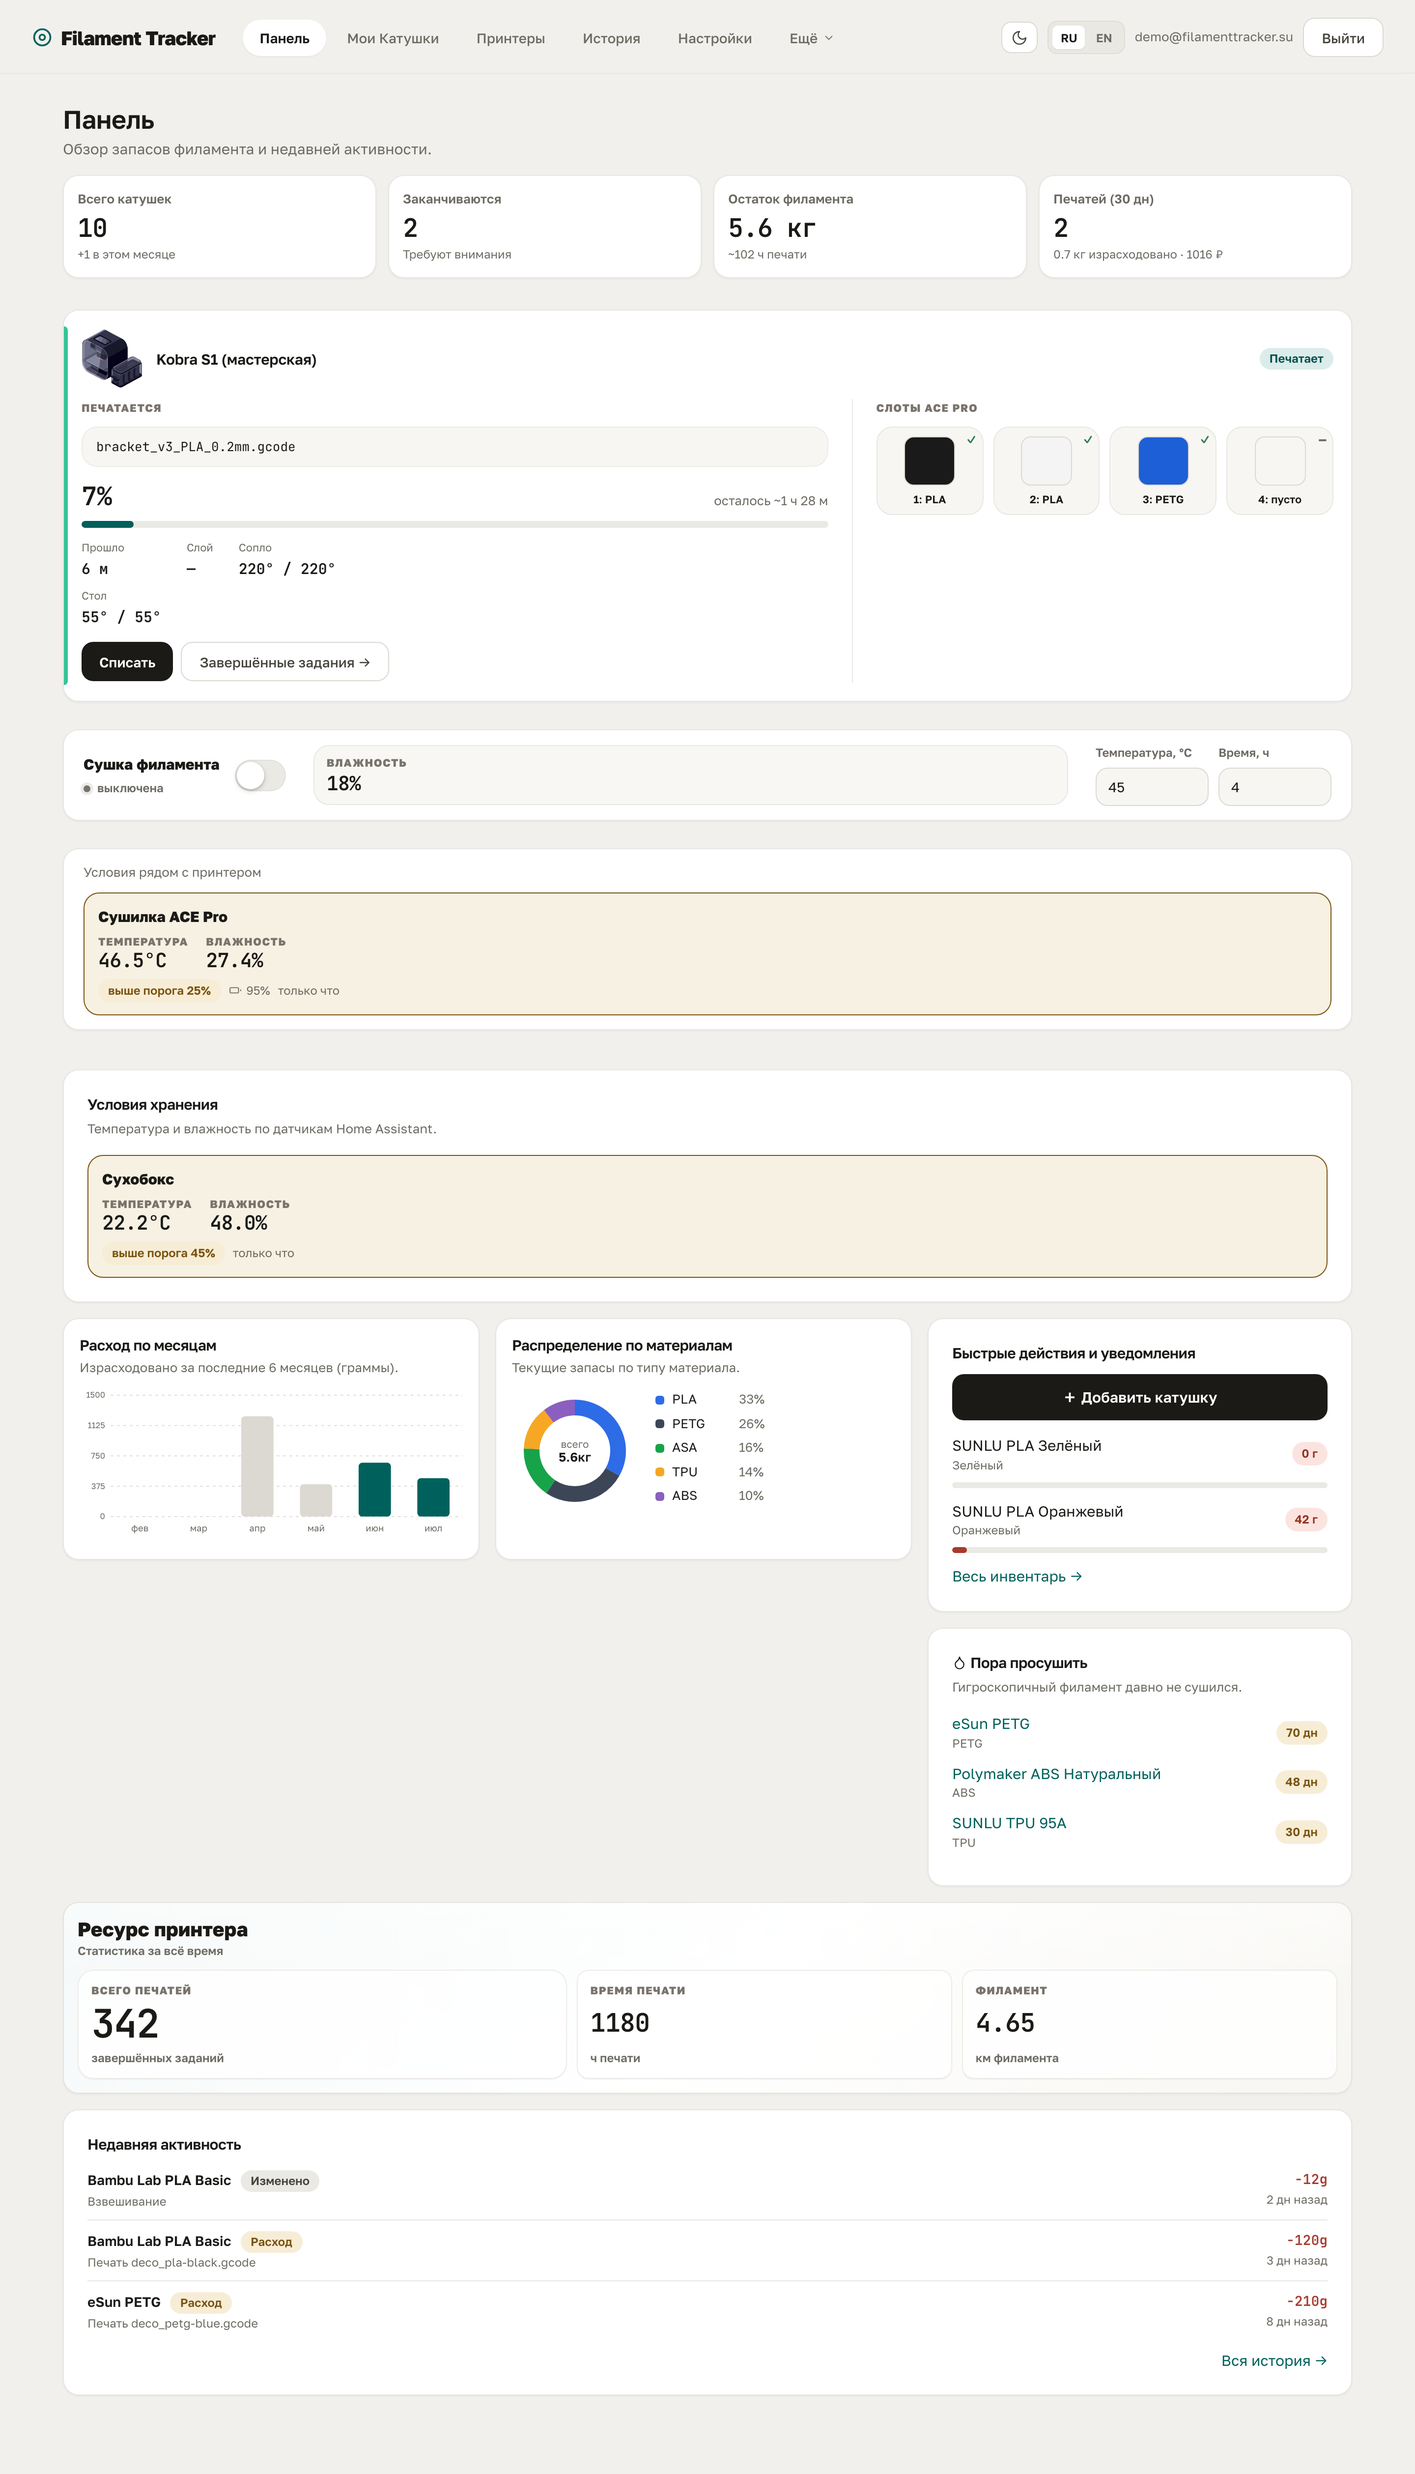
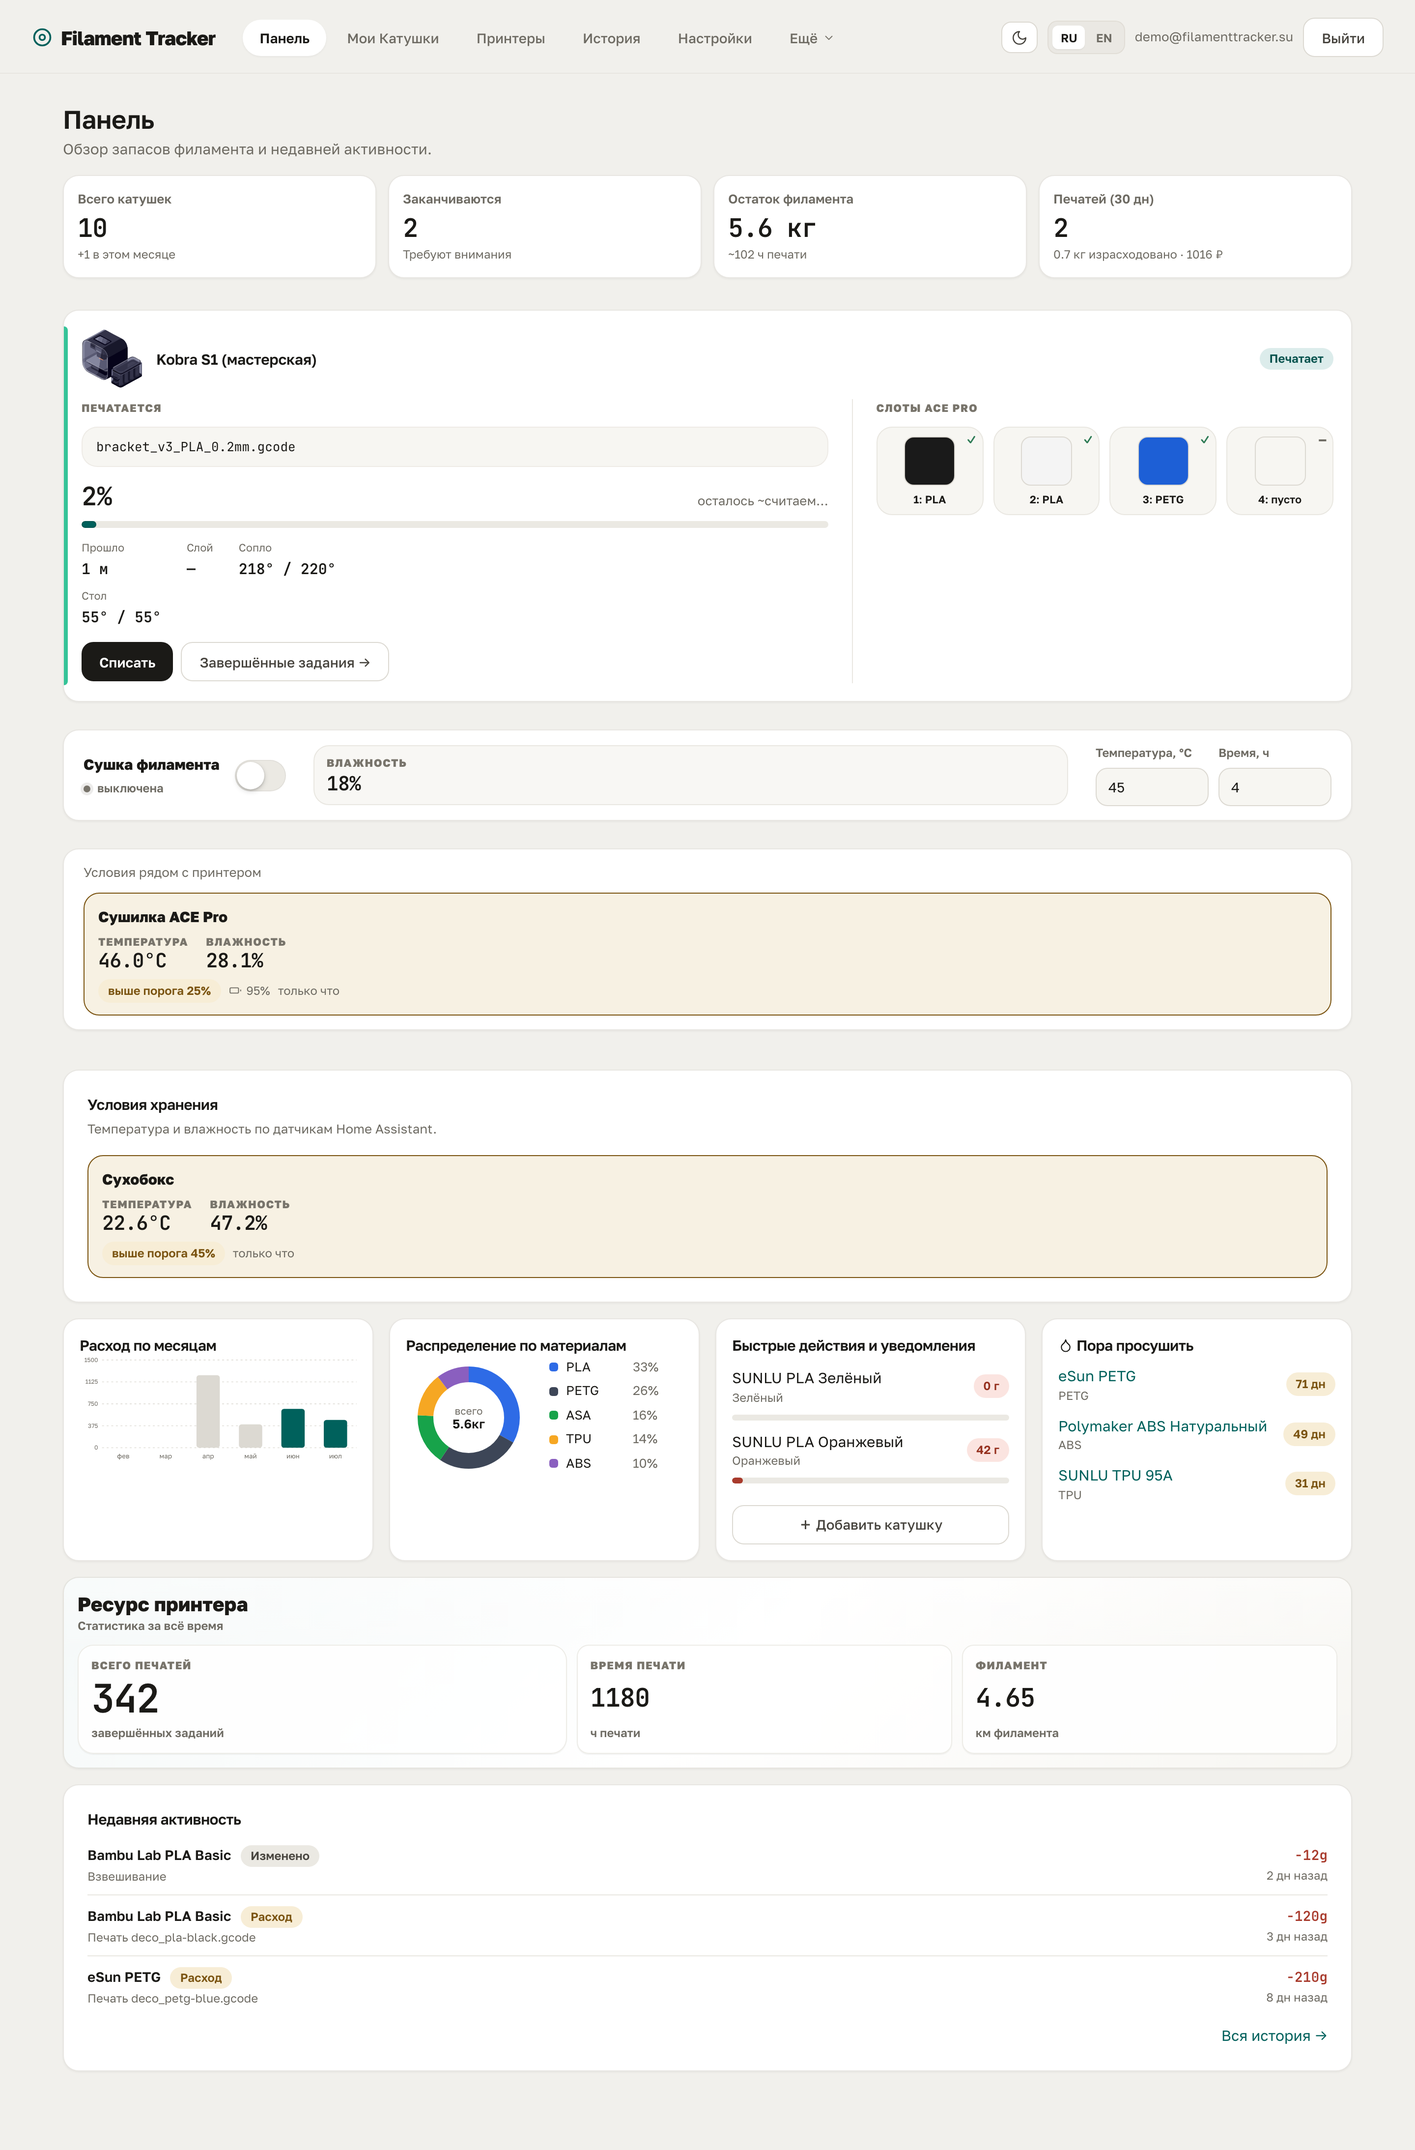
Панель: аналитика и напоминания — четыре компактные плитки вместо двух строк
- график расхода растягивался до ~640px и раздувался вдвое по высоте; теперь плитки ~300px держат его компактным
- весь блок — одна строка вместо двух, высота втрое меньше
- плитки одной высоты (stretch), кнопка «Добавить» прижата к низу — ровные низы и отступ до следующего блока
- «Добавить катушку» стала обычной вторичной, списки остатка и сушки обрезаны до трёх

diff --git a/frontend/src/pages/Dashboard.jsx b/frontend/src/pages/Dashboard.jsx
@@ -720,44 +720,39 @@ export default function Dashboard() {
         </div>
       )}
 
+      {/* Четыре плитки в ряд. Раньше band был двумя строками половинной ширины,
+          и графики растягивались до ~640px, раздуваясь по высоте. Подписи-
+          пояснения убраны: оси и легенда говорят то же короче. */}
       <div className="dash-main">
-        <div>
-          <div className="dash-charts">
-            <div className="card">
-              <h3 className="card-title">{t("Расход по месяцам")}</h3>
-              <div className="card-sub">{t("Израсходовано за последние 6 месяцев (граммы).")}</div>
-              <BarChart data={d.monthly_usage} />
-            </div>
-            <div className="card">
-              <h3 className="card-title">{t("Распределение по материалам")}</h3>
-              <div className="card-sub">{t("Текущие запасы по типу материала.")}</div>
-              {d.material_distribution.length ? <Donut data={d.material_distribution} /> : <div className="muted">{t("Нет данных")}</div>}
-            </div>
-          </div>
+        <div className="card">
+          <h3 className="card-title">{t("Расход по месяцам")}</h3>
+          <BarChart data={d.monthly_usage} />
         </div>
 
-        <div>
-          <div className="card">
-            <h3 className="card-title">{t("Быстрые действия и уведомления")}</h3>
-            <button
-              style={{ width: "100%", padding: "13px", fontSize: 15, fontWeight: 600, marginTop: 12 }}
-              onClick={() => navigate("/spools/new")}
-            >
-              {t("＋ Добавить катушку")}
-            </button>
+        <div className="card">
+          <h3 className="card-title">{t("Распределение по материалам")}</h3>
+          {d.material_distribution.length ? <Donut data={d.material_distribution} /> : <div className="muted">{t("Нет данных")}</div>}
+        </div>
+
+        {/* Низкий остаток + быстрое добавление. На мобиле поднимается над графиками. */}
+        <div className="card dash-quick">
+          <h3 className="card-title">{t("Быстрые действия и уведомления")}</h3>
+          {/* Тело растёт и прижимает кнопку к низу — плитка одной высоты с
+              графиками и без пустого низа. */}
+          <div className="dash-quick-body">
             {d.low_stock.length === 0 ? (
-              <div className="ok-panel">
+              <div className="ok-panel" style={{ marginTop: 12 }}>
                 <div className="ok-panel-title"><Icon name="check" size={15} /> {t("Всё в порядке")}</div>
                 <div className="muted">{t("Нет катушек с низким остатком.")}</div>
                 <Link to="/spools" style={{ display: "inline-block", marginTop: 6 }}>{t("Все катушки →")}</Link>
               </div>
             ) : (
-              <div style={{ marginTop: 14 }}>
-                {d.low_stock.map((s) => (
-                  <div key={s.id} style={{ marginBottom: 12 }}>
-                    <div style={{ display: "flex", justifyContent: "space-between", alignItems: "center" }}>
-                      <div>
-                        <div>{s.name}</div>
+              <div style={{ marginTop: 12 }}>
+                {d.low_stock.slice(0, 3).map((s) => (
+                  <div key={s.id} style={{ marginBottom: 10 }}>
+                    <div style={{ display: "flex", justifyContent: "space-between", alignItems: "center", gap: 8 }}>
+                      <div style={{ minWidth: 0 }}>
+                        <div style={{ overflow: "hidden", textOverflow: "ellipsis", whiteSpace: "nowrap" }}>{s.name}</div>
                         <div className="muted" style={{ fontSize: 12 }}>{s.sub}</div>
                       </div>
                       <span className="badge empty">{s.remaining_g}{" "}{t("г")}</span>
@@ -765,27 +760,29 @@ export default function Dashboard() {
                     <div className="lowstock-bar"><div style={{ width: `${Math.round(s.pct * 100)}%` }} /></div>
                   </div>
                 ))}
-                <Link to="/spools">{t("Весь инвентарь →")}</Link>
+                {d.low_stock.length > 3 && <Link to="/spools">{t("Весь инвентарь →")}</Link>}
               </div>
             )}
           </div>
-
-          {d.drying_alerts?.length > 0 && (
-            <div className="card">
-              <h3 className="card-title"><Icon name="droplet" size={15} /> {t("Пора просушить")}</h3>
-              <div className="card-sub">{t("Гигроскопичный филамент давно не сушился.")}</div>
-              {d.drying_alerts.map((a) => (
-                <div key={a.id} style={{ display: "flex", justifyContent: "space-between", alignItems: "center", marginBottom: 10 }}>
-                  <div>
-                    <Link to={`/spools/${a.id}`}>{a.name}</Link>
-                    <div className="muted" style={{ fontSize: 12 }}>{a.material}</div>
-                  </div>
-                  <span className="badge almost_empty">{a.days} {t("дн")}</span>
-                </div>
-              ))}
-            </div>
-          )}
+          <button className="secondary" style={{ width: "100%", marginTop: 12 }} onClick={() => navigate("/spools/new")}>
+            {t("＋ Добавить катушку")}
+          </button>
         </div>
+
+        {d.drying_alerts?.length > 0 && (
+          <div className="card">
+            <h3 className="card-title"><Icon name="droplet" size={15} /> {t("Пора просушить")}</h3>
+            {d.drying_alerts.slice(0, 3).map((a) => (
+              <div key={a.id} style={{ display: "flex", justifyContent: "space-between", alignItems: "center", gap: 8, marginTop: 10 }}>
+                <div style={{ minWidth: 0 }}>
+                  <Link to={`/spools/${a.id}`} style={{ display: "block", overflow: "hidden", textOverflow: "ellipsis", whiteSpace: "nowrap" }}>{a.name}</Link>
+                  <div className="muted" style={{ fontSize: 12 }}>{a.material}</div>
+                </div>
+                <span className="badge almost_empty">{a.days} {t("дн")}</span>
+              </div>
+            ))}
+          </div>
+        )}
       </div>
 
       {mrPrinters.map((p) => lifetimes[p.id] && (

diff --git a/frontend/src/styles.css b/frontend/src/styles.css
@@ -397,15 +397,25 @@ label { display: block; font-size: var(--fs-2); font-weight: 600; color: var(--m
 /* --- Панель (дашборд) --- */
 .dash-kpis { display: grid; grid-template-columns: repeat(4, minmax(0, 1fr)); gap: 12px; margin-bottom: 16px; }
 .dash-kpis .card { padding: 14px; }
-.dash-main { display: grid; grid-template-columns: minmax(0, 2fr) minmax(300px, 1fr); gap: 16px; align-items: start; }
-.dash-charts { display: grid; grid-template-columns: 1fr 1fr; gap: 16px; }
-/* Карточки графиков компактнее: меньше паддинг и отступ под подзаголовком. */
-.dash-charts .card { padding: 16px; }
-.dash-charts .card-sub { margin: 4px 0 10px; }
+/* Панель — четыре равные плитки в ряд: расход, распределение, быстрые
+   действия, напоминание о сушке. До этого band жил в двух строках половинной
+   ширины, и графики растягивались до ~640px, раздуваясь по высоте вдвое.
+   Плитки по ~300px держат графики компактными, а весь блок — в одну строку.
+   auto-fit: без карточки сушки три плитки честно делят ширину, пустой ячейки
+   не остаётся; app-content ограничен 1440px, поэтому плитки не разъезжаются. */
+.dash-main { display: grid; grid-template-columns: repeat(auto-fit, minmax(250px, 1fr)); gap: 16px; align-items: stretch; margin-bottom: 16px; }
+.dash-main .card { margin-bottom: 0; padding: 16px; }
+/* Все плитки одной высоты (stretch), поэтому их низы совпадают и до следующего
+   блока остаётся ровный отступ. Карточка действий — колонка: тело растёт,
+   кнопка «Добавить» держится у низа, растянутая плитка не пустует снизу. */
+.dash-quick { display: flex; flex-direction: column; }
+.dash-quick-body { flex: 1 1 auto; }
 @media (max-width: 1100px) {
   .dash-kpis { grid-template-columns: repeat(2, 1fr); }
-  .dash-main { grid-template-columns: 1fr; }
-  .dash-charts { grid-template-columns: 1fr; }
+  .dash-main { grid-template-columns: repeat(2, minmax(0, 1fr)); }
+}
+@media (max-width: 560px) {
+  .dash-main { grid-template-columns: minmax(0, 1fr); }
 }
 .dash-printers { display: grid; grid-template-columns: minmax(0, 1fr); gap: 24px; margin-bottom: 24px; }
 .dash-printers > * { min-width: 0; }
@@ -662,11 +672,9 @@ label { display: block; font-size: var(--fs-2); font-weight: 600; color: var(--m
   .inv-toolbar { padding: 10px; gap: 8px; margin-bottom: 12px; }
   .card-sub { margin: 4px 0 12px; }
 
-  /* Мобайл: «Быстрые действия» (с «Добавить катушку») — над графиками
-     «Расход по месяцам» / «Распределение по материалам». Десктоп (2 колонки)
-     не затрагивается — правило только для одноколоночной раскладки. */
-  .dash-main > div:first-child { order: 2; }
-  .dash-main > div:last-child { order: 1; }
+  /* Мобайл: «Быстрые действия» (с «Добавить катушку») поднимаются над
+     графиками — CTA важнее аналитики на маленьком экране. */
+  .dash-quick { order: -1; }
 
   /* Катушки: сетка в 2 колонки и плотнее; поиск на всю строку, фильтры делят
      следующую строку поровну. */
@@ -681,10 +689,7 @@ label { display: block; font-size: var(--fs-2); font-weight: 600; color: var(--m
 }
 
 /* Грид-колонки не должны распираться min-content'ом таблиц/svg внутри */
-.dash-main > *, .dash-charts > *, .form-grid > * { min-width: 0; }
-@media (max-width: 1100px) {
-  .dash-main, .dash-charts { grid-template-columns: minmax(0, 1fr); }
-}
+.dash-main > *, .form-grid > * { min-width: 0; }
 @media (max-width: 1000px) {
   .form-grid { grid-template-columns: minmax(0, 1fr); }
 }
